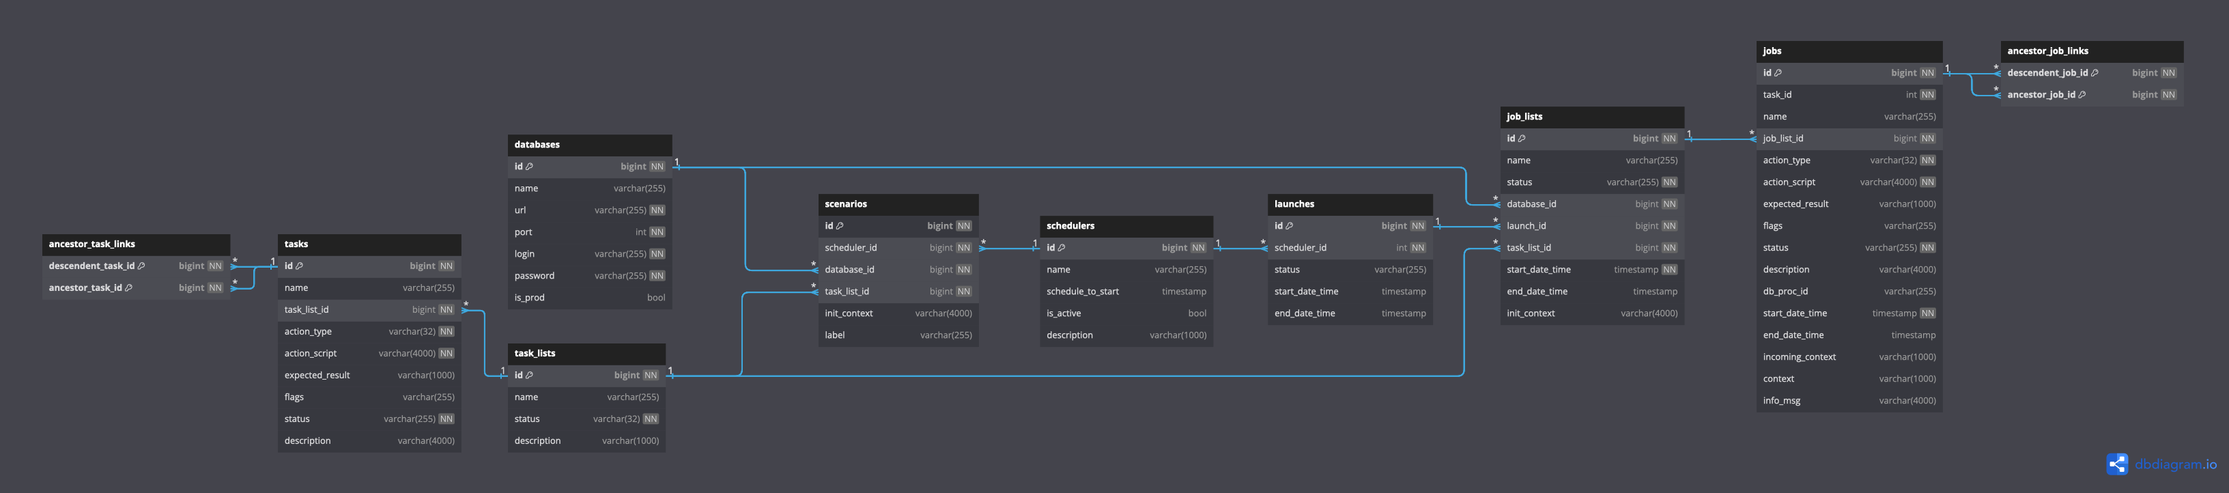
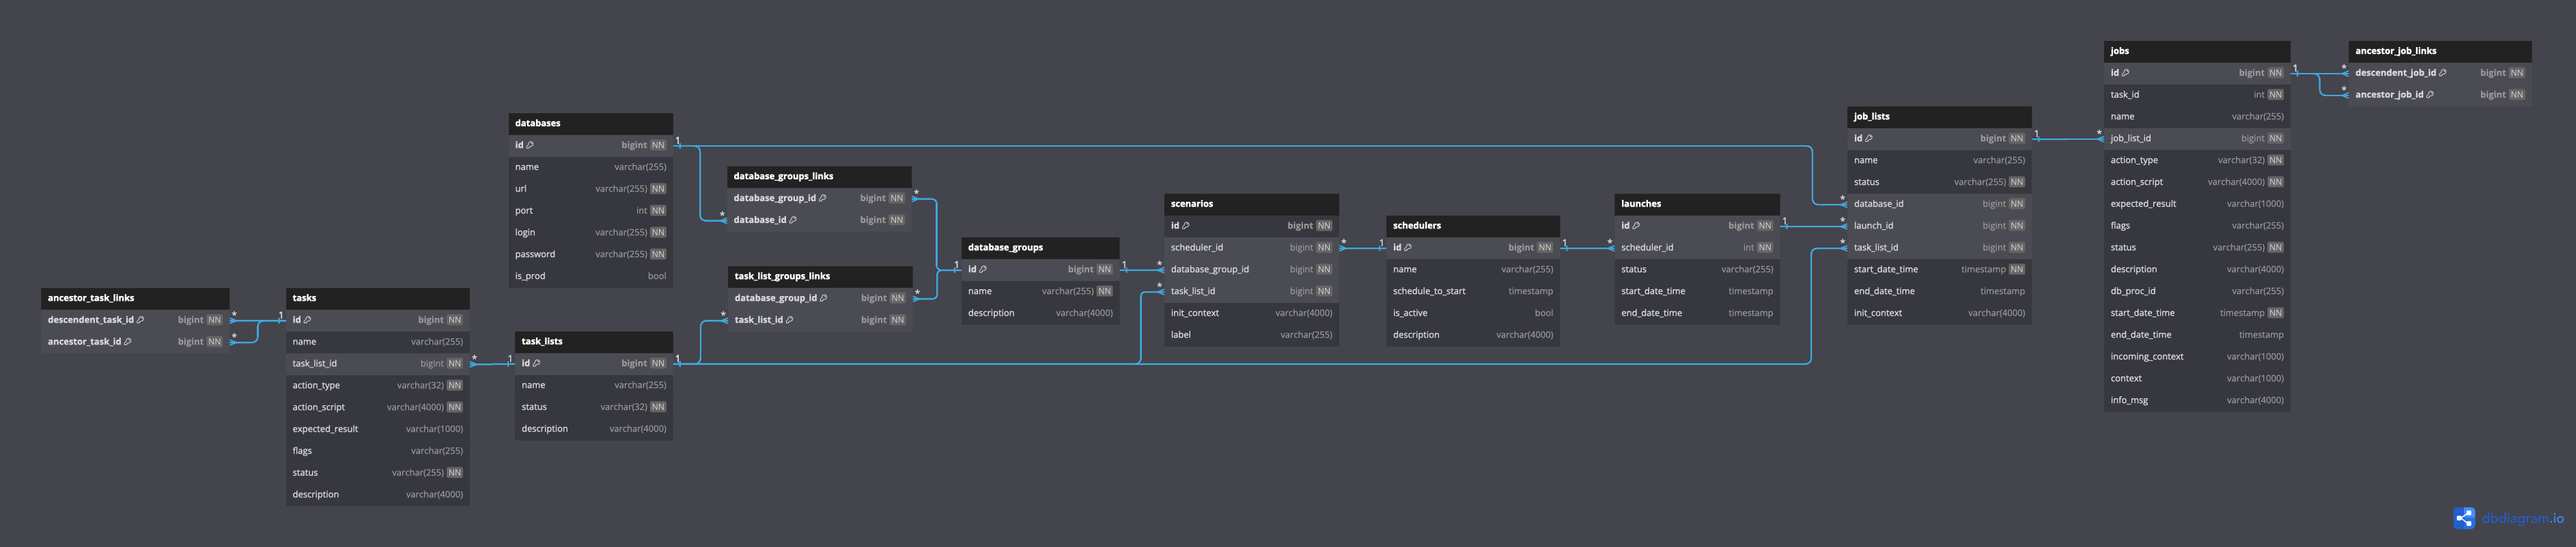
Add DatabaseGroups entity, dto, mapper, controller, service, repository

diff --git a/editor-service/src/main/java/com/vnazarenko/updater/databasegroup/DatabaseGroupController.java b/editor-service/src/main/java/com/vnazarenko/updater/databasegroup/DatabaseGroupController.java
@@ -1,0 +1,85 @@
+package com.vnazarenko.updater.databasegroup;
+
+import com.vnazarenko.updater.databasegroup.model.DatabaseGroupPayload;
+import com.vnazarenko.updater.util.Marker;
+import lombok.RequiredArgsConstructor;
+import lombok.extern.slf4j.Slf4j;
+import org.springframework.http.HttpStatus;
+import org.springframework.validation.annotation.Validated;
+import org.springframework.web.bind.annotation.*;
+
+import java.util.List;
+
+/**
+ * Класс-контроллер DatabaseGroup
+ */
+@Slf4j
+@Validated
+@RestController
+@RequiredArgsConstructor
+@RequestMapping("/db_groups")
+public class DatabaseGroupController {
+    private final DatabaseGroupService databaseGroupService;
+
+    /**
+     * Создание группы БД
+     *
+     * @param databaseGroupPayload Тело запроса с DTO группы базы данных
+     * @return объект DTO с новой созданной группой базой данных
+     */
+    @PostMapping
+    @ResponseStatus(HttpStatus.CREATED)
+    public DatabaseGroupPayload createDatabaseGroup(@Validated(Marker.OnCreate.class) @RequestBody DatabaseGroupPayload databaseGroupPayload) {
+        log.info("POST /db_groups - %s".formatted(databaseGroupPayload));
+        return databaseGroupService.createDatabaseGroup(databaseGroupPayload);
+    }
+
+    /**
+     * Получение всех групп БД
+     *
+     * @return список с объектами DTO групп баз данных
+     */
+    @GetMapping
+    public List<DatabaseGroupPayload> readDatabaseGroups() {
+        log.info("GET /db_groups");
+        return databaseGroupService.readDatabaseGroups();
+    }
+
+    /**
+     * Получение группы БД по номеру
+     *
+     * @param id идентификатор группы базы данных
+     * @return объект DTO группы базы данных
+     */
+    @GetMapping("/{id}")
+    public DatabaseGroupPayload readDatabaseGroup(@PathVariable("id") Long id) {
+        log.info("GET /db_groups/%d".formatted(id));
+        return databaseGroupService.readDatabaseGroup(id);
+    }
+
+    /**
+     * Изменение группы БД
+     *
+     * @param id                   Идентификатор обновляемой группы базы данных
+     * @param databaseGroupPayload Тело запроса с DTO группы базы данных
+     * @return объект DTO группы базы данных с обновлёнными полями
+     */
+    @PatchMapping("/{id}")
+    public DatabaseGroupPayload updateDatabaseGroup(@PathVariable Long id,
+                                                    @Validated(Marker.OnUpdate.class) @RequestBody DatabaseGroupPayload databaseGroupPayload) {
+        log.info("PATCH /db_groups/%d - %s".formatted(id, databaseGroupPayload));
+        return databaseGroupService.updateDatabaseGroup(id, databaseGroupPayload);
+    }
+
+    /**
+     * Удаление группы БД
+     *
+     * @param id идентификатор группы базы данных
+     */
+    @DeleteMapping("/{id}")
+    @ResponseStatus(HttpStatus.NO_CONTENT)
+    public void deleteDatabaseGroup(@PathVariable("id") Long id) {
+        log.info("DELETE /db_groups/%d".formatted(id));
+        databaseGroupService.deleteDatabaseGroup(id);
+    }
+}

diff --git a/editor-service/src/main/java/com/vnazarenko/updater/databasegroup/DatabaseGroupServiceImpl.java b/editor-service/src/main/java/com/vnazarenko/updater/databasegroup/DatabaseGroupServiceImpl.java
@@ -1,0 +1,52 @@
+package com.vnazarenko.updater.databasegroup;
+
+import com.vnazarenko.updater.databasegroup.model.DatabaseGroup;
+import com.vnazarenko.updater.databasegroup.model.DatabaseGroupMapper;
+import com.vnazarenko.updater.databasegroup.model.DatabaseGroupPayload;
+import com.vnazarenko.updater.exception.EntityNotFoundException;
+import lombok.RequiredArgsConstructor;
+import org.springframework.stereotype.Service;
+import org.springframework.transaction.annotation.Transactional;
+
+import java.util.List;
+
+@RequiredArgsConstructor
+@Service
+@Transactional(readOnly = true)
+public class DatabaseGroupServiceImpl implements DatabaseGroupService {
+    private final DatabaseGroupStorage dao;
+    private final DatabaseGroupMapper mapper;
+
+    @Override
+    @Transactional
+    public DatabaseGroupPayload createDatabaseGroup(DatabaseGroupPayload databaseGroupPayload) {
+        return mapper.toDto(dao.save(mapper.toEntity(databaseGroupPayload)));
+    }
+
+    @Override
+    public DatabaseGroupPayload readDatabaseGroup(Long id) {
+        return mapper.toDto(dao.findById(id)
+                .orElseThrow(() ->
+                        new EntityNotFoundException("DatabaseGroup with id \"%d\" not found.".formatted(id))));
+    }
+
+    @Override
+    public List<DatabaseGroupPayload> readDatabaseGroups() {
+        return mapper.toDtoList(dao.findAll());
+    }
+
+    @Override
+    @Transactional
+    public DatabaseGroupPayload updateDatabaseGroup(Long id, DatabaseGroupPayload databaseGroupPayload) {
+        DatabaseGroup databaseGroup = mapper.toEntity(this.readDatabaseGroup(id));
+        DatabaseGroup updatedDatabaseGroup = mapper.update(databaseGroupPayload, databaseGroup);
+
+        return mapper.toDto(dao.save(updatedDatabaseGroup));
+    }
+
+    @Override
+    @Transactional
+    public void deleteDatabaseGroup(Long id) {
+        dao.deleteById(id);
+    }
+}

diff --git a/editor-service/src/main/java/com/vnazarenko/updater/databasegroup/model/DatabaseGroup.java b/editor-service/src/main/java/com/vnazarenko/updater/databasegroup/model/DatabaseGroup.java
@@ -1,0 +1,49 @@
+package com.vnazarenko.updater.databasegroup.model;
+
+import com.vnazarenko.updater.database.model.Database;
+import jakarta.persistence.*;
+import lombok.*;
+
+import java.util.Set;
+
+/**
+ * Класс Database описывает настройки клиентской базы данных
+ */
+@Getter
+@Setter
+@Builder
+@NoArgsConstructor
+@AllArgsConstructor
+@Entity
+@Table(name = "database_groups")
+public class DatabaseGroup {
+
+    /**
+     * Системный идентификатор
+     */
+    @Id
+    @GeneratedValue(strategy = GenerationType.IDENTITY)
+    @Column(name = "id")
+    private Long id;
+
+    /**
+     * Пользовательское имя группы баз данных
+     */
+    @Column(name = "name")
+    private String name;
+
+    /**
+     * Описание группы баз данных
+     */
+    @Column(name = "description")
+    private String description;
+
+    /**
+     * Коллекция с базами данных входящих в подборку
+     */
+    @OneToMany(cascade = CascadeType.ALL)
+    @JoinTable(name = "database_groups_links",
+            joinColumns = @JoinColumn(name = "database_group_id", referencedColumnName = "id"),
+            inverseJoinColumns = @JoinColumn(name = "database_id", referencedColumnName = "id"))
+    private Set<Database> databases;
+}

diff --git a/editor-service/src/main/java/com/vnazarenko/updater/scenario/model/ScenarioMapper.java b/editor-service/src/main/java/com/vnazarenko/updater/scenario/model/ScenarioMapper.java
@@ -10,19 +10,19 @@ import java.util.List;
 public interface ScenarioMapper {
 
     @Mappings({@Mapping(target = "scheduler.id", source = "schedulerId"),
-            @Mapping(target = "database.id", source = "databaseId"),
+            @Mapping(target = "databaseGroup.id", source = "databaseGroupId"),
             @Mapping(target = "taskList.id", source = "taskListId")})
     Scenario toEntity(ScenarioPayload scenarioPayload);
 
     @Mappings({@Mapping(target = "schedulerId", source = "scheduler.id"),
-            @Mapping(target = "databaseId", source = "database.id"),
+            @Mapping(target = "databaseGroupId", source = "databaseGroup.id"),
             @Mapping(target = "taskListId", source = "taskList.id")})
     ScenarioPayload toDto(Scenario scenario);
 
     List<ScenarioPayload> toDtoList(List<Scenario> scenarioList);
 
     @Mappings({@Mapping(target = "scheduler.id", source = "schedulerId"),
-            @Mapping(target = "database.id", source = "databaseId"),
+            @Mapping(target = "databaseGroup.id", source = "databaseGroupId"),
             @Mapping(target = "taskList.id", source = "taskListId")})
     Scenario update(ScenarioPayload scenarioPayload, @MappingTarget Scenario scenario);
 }

diff --git a/editor-service/src/main/java/com/vnazarenko/updater/databasegroup/model/DatabaseGroupPayload.java b/editor-service/src/main/java/com/vnazarenko/updater/databasegroup/model/DatabaseGroupPayload.java
@@ -1,0 +1,19 @@
+package com.vnazarenko.updater.databasegroup.model;
+
+import com.vnazarenko.updater.util.Marker;
+import jakarta.validation.constraints.NotBlank;
+import jakarta.validation.constraints.NotNull;
+import jakarta.validation.constraints.Positive;
+import jakarta.validation.constraints.Size;
+
+/**
+ * Класс DTO класса "Database"
+ */
+public record DatabaseGroupPayload(@NotNull(groups = {Marker.OnUpdate.class})
+                                   @Positive Long id,
+                                   @NotBlank(groups = {Marker.OnCreate.class}, message = "Имя группы баз данных должно быть указано.")
+                                   @Size(min = 1, max = 255, message = "Длина имени группы базы данных должна быть от 1 до 255 символов.")
+                                   String name,
+                                   @Size(min = 1, max = 4000, message = "Длина описания группы баз данных должна быть от 1 до 4000 символов.")
+                                   String description) {
+}

diff --git a/editor-service/src/main/java/com/vnazarenko/updater/tasklist/model/TaskList.java b/editor-service/src/main/java/com/vnazarenko/updater/tasklist/model/TaskList.java
@@ -1,8 +1,11 @@
 package com.vnazarenko.updater.tasklist.model;
 
+import com.vnazarenko.updater.databasegroup.model.DatabaseGroup;
 import com.vnazarenko.updater.util.StatusType;
 import jakarta.persistence.*;
 import lombok.*;
+
+import java.util.Set;
 
 /**
  * Класс TaskList описывает настройки сценария
@@ -42,4 +45,13 @@ public class TaskList {
      */
     @Column(name = "description")
     private String description;
+
+    /**
+     * Коллекция с базами данных входящих в подборку
+     */
+    @OneToMany(cascade = CascadeType.ALL)
+    @JoinTable(name = "task_list_groups_links",
+            joinColumns = @JoinColumn(name = "task_list_id", referencedColumnName = "id"),
+            inverseJoinColumns = @JoinColumn(name = "database_group_id", referencedColumnName = "id"))
+    private Set<DatabaseGroup> databaseGroups;
 }

diff --git a/editor-service/src/main/java/com/vnazarenko/updater/scenario/model/ScenarioPayload.java b/editor-service/src/main/java/com/vnazarenko/updater/scenario/model/ScenarioPayload.java
@@ -11,9 +11,9 @@ public record ScenarioPayload(@Positive
                               @NotNull(message = "Id планировщика должен быть указан.")
                               @Positive
                               Long schedulerId,
-                              @NotNull(message = "Id базы данных должен быть указан.")
+                              @NotNull(message = "Id группы баз данных должен быть указан.")
                               @Positive
-                              Long databaseId,
+                              Long databaseGroupId,
                               @NotNull(message = "Id списка задач должен быть указан.")
                               @Positive
                               Long taskListId,

diff --git a/editor-service/src/main/java/com/vnazarenko/updater/scenario/model/Scenario.java b/editor-service/src/main/java/com/vnazarenko/updater/scenario/model/Scenario.java
@@ -1,6 +1,6 @@
 package com.vnazarenko.updater.scenario.model;
 
-import com.vnazarenko.updater.database.model.Database;
+import com.vnazarenko.updater.databasegroup.model.DatabaseGroup;
 import com.vnazarenko.updater.scheduler.model.Scheduler;
 import com.vnazarenko.updater.tasklist.model.TaskList;
 import jakarta.persistence.*;
@@ -41,8 +41,8 @@ public class Scenario {
      */
     @ManyToOne(fetch = FetchType.LAZY)
     @OnDelete(action = OnDeleteAction.CASCADE)
-    @JoinColumn(name = "database_id", referencedColumnName = "id", nullable = false)
-    private Database database;
+    @JoinColumn(name = "database_group_id", referencedColumnName = "id", nullable = false)
+    private DatabaseGroup databaseGroup;
 
     /**
      * Идентификатор сценария

diff --git a/editor-service/src/main/java/com/vnazarenko/updater/databasegroup/model/DatabaseGroupMapper.java b/editor-service/src/main/java/com/vnazarenko/updater/databasegroup/model/DatabaseGroupMapper.java
@@ -1,0 +1,19 @@
+package com.vnazarenko.updater.databasegroup.model;
+
+import org.mapstruct.*;
+
+import java.util.List;
+
+@Mapper(componentModel = MappingConstants.ComponentModel.SPRING,
+        nullValuePropertyMappingStrategy = NullValuePropertyMappingStrategy.IGNORE,
+        unmappedTargetPolicy = ReportingPolicy.WARN)
+public interface DatabaseGroupMapper {
+
+    DatabaseGroup toEntity(DatabaseGroupPayload databaseGroupPayload);
+
+    DatabaseGroupPayload toDto(DatabaseGroup databaseGroup);
+
+    List<DatabaseGroupPayload> toDtoList(List<DatabaseGroup> databaseGroupList);
+
+    DatabaseGroup update(DatabaseGroupPayload databaseGroupPayload, @MappingTarget DatabaseGroup databaseGroup);
+}

diff --git a/editor-service/src/main/java/com/vnazarenko/updater/databasegroup/DatabaseGroupService.java b/editor-service/src/main/java/com/vnazarenko/updater/databasegroup/DatabaseGroupService.java
@@ -1,0 +1,18 @@
+package com.vnazarenko.updater.databasegroup;
+
+import com.vnazarenko.updater.databasegroup.model.DatabaseGroupPayload;
+
+import java.util.List;
+
+public interface DatabaseGroupService {
+
+    DatabaseGroupPayload createDatabaseGroup(DatabaseGroupPayload databaseGroupPayload);
+
+    DatabaseGroupPayload readDatabaseGroup(Long id);
+
+    List<DatabaseGroupPayload> readDatabaseGroups();
+
+    DatabaseGroupPayload updateDatabaseGroup(Long id, DatabaseGroupPayload databaseGroupPayload);
+
+    void deleteDatabaseGroup(Long id);
+}

diff --git a/editor-service/src/main/java/com/vnazarenko/updater/scenario/ScenarioServiceImpl.java b/editor-service/src/main/java/com/vnazarenko/updater/scenario/ScenarioServiceImpl.java
@@ -27,7 +27,7 @@ public class ScenarioServiceImpl implements ScenarioService {
     public ScenarioPayload readScenario(Long id) {
         return mapper.toDto(dao.findById(id)
                 .orElseThrow(() ->
-                        new EntityNotFoundException("TaskList with id \"%d\" not found".formatted(id))));
+                        new EntityNotFoundException("Scenario with id \"%d\" not found".formatted(id))));
     }
 
     @Override

diff --git a/editor-service/src/main/java/com/vnazarenko/updater/databasegroup/DatabaseGroupStorage.java b/editor-service/src/main/java/com/vnazarenko/updater/databasegroup/DatabaseGroupStorage.java
@@ -1,0 +1,8 @@
+package com.vnazarenko.updater.databasegroup;
+
+import com.vnazarenko.updater.databasegroup.model.DatabaseGroup;
+import org.springframework.data.jpa.repository.JpaRepository;
+
+public interface DatabaseGroupStorage extends JpaRepository<DatabaseGroup, Long> {
+
+}
